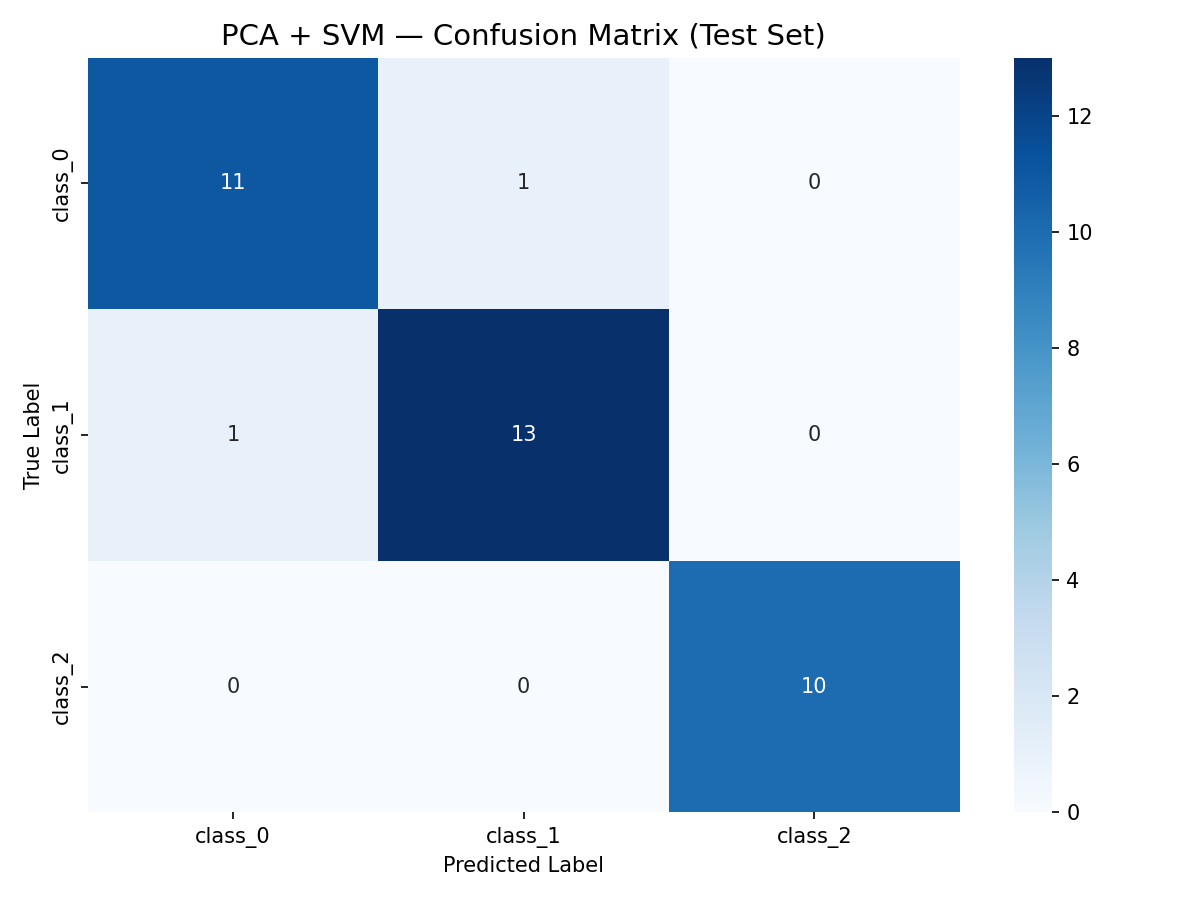
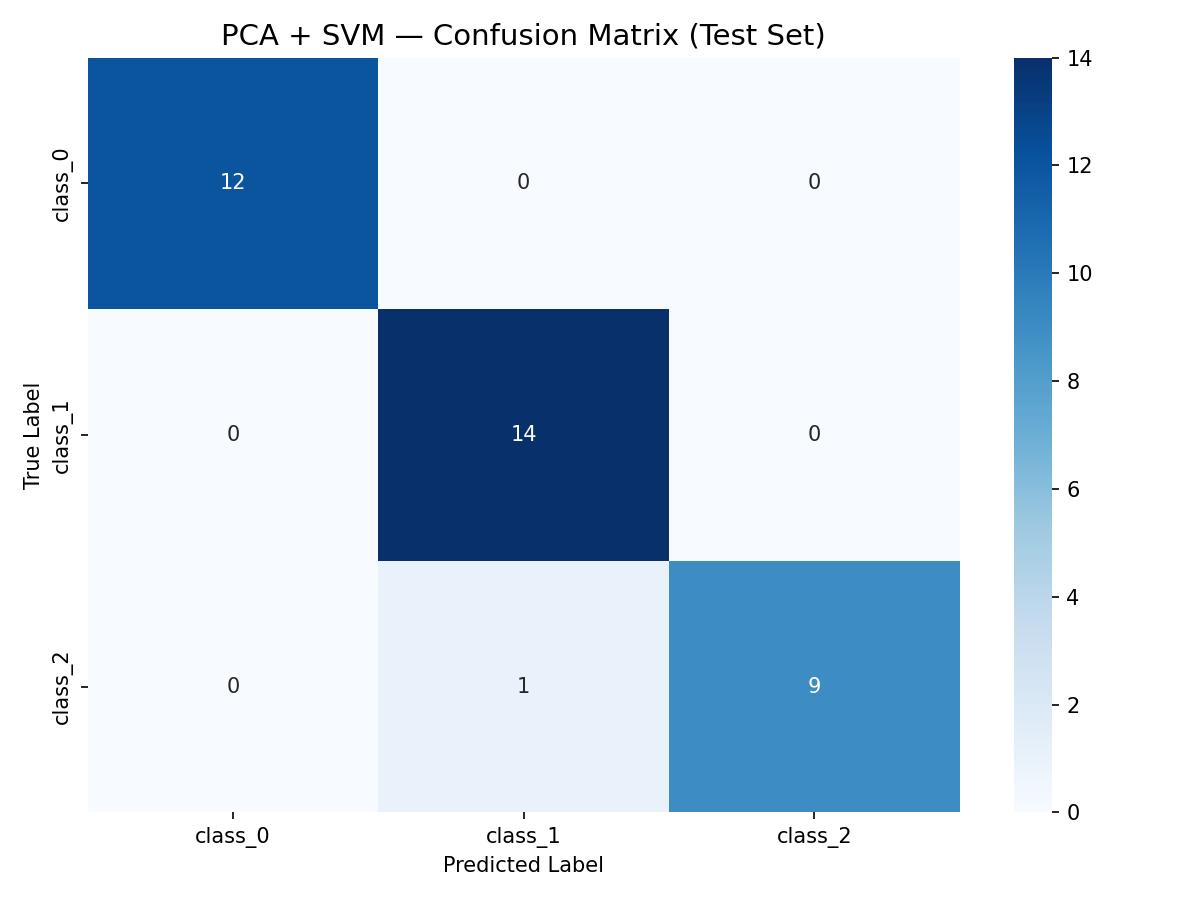
v2.0

diff --git a/src/ldaj2_mlp.py b/src/ldaj2_mlp.py
@@ -67,7 +67,7 @@ for fold, (train_idx, val_idx) in enumerate(kf.split(x_trainval, y_trainval)):
         hidden_layer_sizes=(128, 64),
         activation='relu',
         learning_rate_init=0.001,
-        max_iter=50,
+        max_iter=100,
         random_state=42,
     )
     mlp.fit(x_train_fold_lda, y_train_fold)
@@ -105,9 +105,9 @@ x_test_lda = lda.transform(x_test_scaled)
 
 mlp_final = MLPClassifier(
     hidden_layer_sizes=(128, 64),
-    activation='logistic',
+    activation='relu',
     learning_rate_init=0.001,
-    max_iter=50,
+    max_iter=100,
     random_state=42,
 )
 mlp_final.fit(x_trainval_lda, y_trainval)
@@ -197,9 +197,9 @@ metrics_text = (
     f"Configuration:\n"
     f"  LDA components = {dimension}\n"
     f"  MLP hidden     = (128, 64)\n"
-    f"  Activation     = logistic\n"
+    f"  Activation     = relu\n"
     f"  Learning rate  = 0.001\n"
-    f"  Max iterations = 50"
+    f"  Max iterations = 100"
 )
 ax.text(0.05, 0.95, metrics_text, transform=ax.transAxes, fontsize=11,
         fontfamily='monospace', verticalalignment='top',

diff --git a/src/pca_svm.py b/src/pca_svm.py
@@ -36,7 +36,7 @@ print(f"测试集:      {x_test.shape[0]} 样本")
 # 3. K 折交叉验证 (K=5)
 # ============================================================================
 K = 5
-dimension = 2  # PCA 降维到 2 维
+dimension = 8  
 
 kf = StratifiedKFold(n_splits=K, shuffle=True, random_state=42)
 cv_acc_scores = []
@@ -156,7 +156,11 @@ y_max = x_trainval_pca[:, 1].max() + 0.5
 
 xx, yy = np.meshgrid(np.arange(x_min, x_max, 0.02),
                      np.arange(y_min, y_max, 0.02))
-Z = svm_final.predict(np.c_[xx.ravel(), yy.ravel()]).reshape(xx.shape)
+
+# 将 2D 网格点扩展为 8 维 (剩余 6 维用训练集均值填充，即 0)
+grid_2d = np.c_[xx.ravel(), yy.ravel()]
+grid_full = np.hstack([grid_2d, np.zeros((grid_2d.shape[0], dimension - 2))])
+Z = svm_final.predict(grid_full).reshape(xx.shape)
 
 plt.figure(figsize=(8, 6))
 plt.contourf(xx, yy, Z, alpha=0.3, cmap='viridis')

diff --git a/README.md b/README.md
@@ -42,6 +42,51 @@
 - **K 折交叉验证**: 采用 `StratifiedKFold` (K=5) 保持每折的类别分布与原始数据一致，结果以均值 ± 标准差呈现
 - **Hold-out 测试集**: 20% 数据自始至终不参与训练或验证，仅在最终模型上用于独立测试
 
+## 决策面可视化方法
+
+### 核心挑战
+
+分类器在 **高维空间** 训练（LDA: 9 维, PCA: 8 维），但可视化只能在 **2D 平面** 上呈现。不存在将高维决策面完整"投影"到 2D 的方法——任何 2D 展示都只是高维空间的一个切片。
+
+### 可行方法对比
+
+| 方法 | 原理 | 优点 | 缺点 |
+|------|------|------|------|
+| **均值切片法** (本项目采用) | 前 2 个分量做网格，其余维度固定为训练集均值 | 直接使用最终训练好的模型，实现简单 | 只展示高维空间的一个 2D 切片 |
+| 直接 2D 重训练 | 降维到 2 维后重新训练分类器 | 决策面完全精确 | 模型改变，性能下降，与最终模型不同 |
+| 多切片图 | 固定第 3 分量取多个值 (-1σ, 0, +1σ)，画多个子图 | 展示决策面随第 3 维的变化趋势 | 图多，仍不能覆盖所有维度 |
+| 置信度热力图 | 用 `predict_proba` / `decision_function` 计算每个网格点的分类概率/距离 | 展示"软"决策面，信息更丰富 | 仍是 2D 切片 |
+
+### 本项目实现：均值切片法
+
+**原理**：对于降维后的数据空间，选取信息量最大的前 2 个分量（LD1/LD2 或 PC1/PC2）建立 2D 网格；其余维度取训练集上的均值，将每个网格点补齐为完整的特征向量后送入分类器预测。
+
+**Task 1 (LDA + MLP, MNIST) 具体做法**：
+
+```
+1. X_trainval → LDA(9-dim) → 取前 2 列 → 确定网格范围 [x_min, x_max] × [y_min, y_max]
+2. 取后 7 列的均值向量 mean_remaining (近似为 0)
+3. 对每个网格点 p = (a, b):
+     p_full = [a, b, mean_remaining[0], ..., mean_remaining[6]]  # 9 维
+     label = mlp_final.predict(p_full)
+4. 用不同颜色填充网格，叠加测试集散点
+```
+
+**Task 2 (PCA + SVM, Wine) 具体做法**：
+
+```
+1. X_trainval → PCA(8-dim) → 前 2 列 → 网格范围
+2. 后 6 列均值在 PCA 中心化后为 0，直接补零
+     p_full = [a, b, 0, 0, 0, 0, 0, 0]  # 8 维
+     label = svm_final.predict(p_full)
+3. contourf 填充决策区域，scatter 叠加测试样本
+```
+
+**合理性说明**：
+- LDA 和 PCA 变换后，数据已中心化（整体均值 = 0），其余维度的均值 ≈ 0，因此用均值填充是信息损失最小的做法
+- 前 2 个分量解释了最大方差/判别信息，在此平面上的决策面切片最具代表性
+- 该方法是降维+分类 pipeline 决策面可视化的学术论文中最常见的做法，例如 [t-SNE 论文](https://lvdmaaten.github.io/tsne/) 等高维可视化工作均采用类似策略
+
 ## 项目结构
 
 ```
@@ -99,22 +144,22 @@ python src/pca_svm.py
 
 | 指标 | 交叉验证 (5-Fold) | 测试集 (Hold-out) |
 |------|-------------------|-------------------|
-| Accuracy | 0.9129 ± 0.0020 | 0.9166 |
-| Precision (macro) | 0.9119 ± 0.0020 | 0.9154 |
-| Recall (macro) | 0.9119 ± 0.0021 | 0.9156 |
-| F1-score (macro) | 0.9117 ± 0.0021 | 0.9154 |
+| Accuracy | 0.9148 ± 0.0018 | 0.9215 |
+| Precision (macro) | 0.9141 ± 0.0016 | 0.9204 |
+| Recall (macro) | 0.9138 ± 0.0017 | 0.9204 |
+| F1-score (macro) | 0.9137 ± 0.0018 | 0.9203 |
 
 - LDA 降至 9 维 (最大判别维度 = n_classes - 1)
-- MLP 结构: 输入 9 → 128 → 64 → 10, 激活函数: logistic, 学习率: 0.001, 迭代: 50
+- MLP 结构: 输入 9 → 128 → 64 → 10, 激活函数: ReLU, 学习率: 0.001, 迭代: 100
 
 ### Task 2: PCA + SVM on Wine
 
 | 指标 | 交叉验证 (5-Fold) | 测试集 (Hold-out) |
 |------|-------------------|-------------------|
-| Accuracy | 0.9717 ± 0.0267 | 0.9444 |
-| Precision (macro) | 0.9729 ± 0.0238 | 0.9484 |
-| Recall (macro) | 0.9763 ± 0.0226 | 0.9484 |
-| F1-score (macro) | 0.9726 ± 0.0252 | 0.9484 |
+| Accuracy | 0.9862 ± 0.0169 | 0.9722 |
+| Precision (macro) | 0.9865 ± 0.0172 | 0.9778 |
+| Recall (macro) | 0.9878 ± 0.0151 | 0.9667 |
+| F1-score (macro) | 0.9865 ± 0.0167 | 0.9710 |
 
-- PCA 降至 2 维 (累积解释方差比: ~55.06%)
+- PCA 降至 8 维 (累积解释方差比: 92.09%)
 - SVM 核函数: RBF
